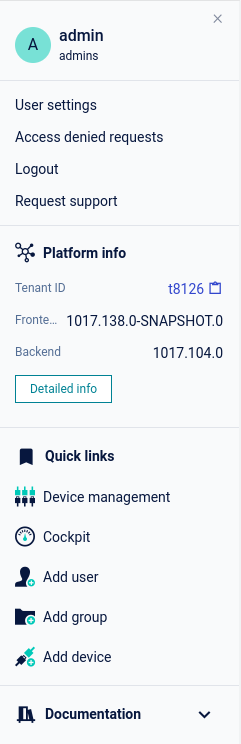
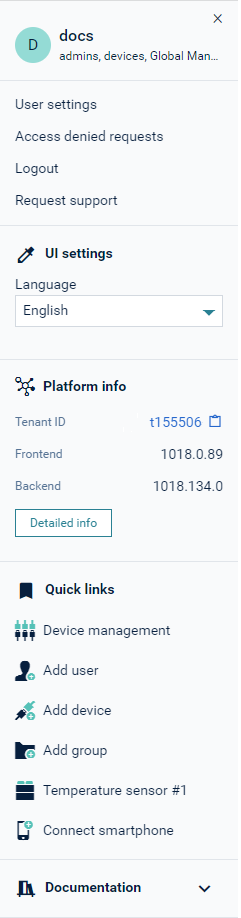
updated user menu screenshot
Updated screenshot of the user menu that has UI settings option to change the language.

diff --git a/content/users-guide/getting-started-bundle/user-settings.md b/content/users-guide/getting-started-bundle/user-settings.md
@@ -52,37 +52,13 @@ Note that this option is only available if support user access is not set global
 </tbody>
 </table>
 
-In the **Platform info** section, you find information on the infrastructure of your platform:
-
-- The ID of your tenant, which might be required if you request support. Click the copy icon next to the tenant ID to copy it to the clipboard.
-- Release version information for both the backend and the UI.
-
-Moreover you can click **Detailed info** to download more detailed platform information.
-
-The **Quick links** section provides links to the most common pages and processes in the platform while the **Documentation** section provides links to the most relevant guides.
-
-<a name="change-user-settings"></a>
-### To change user settings
-
-Several account settings can be changed by the user.
-
-1. Click the **User** button at the right of the top bar and then click **User Settings**.  
-2. In the **Edit user** dialog box, make the relevant changes.
-3. To change the language, select a [language](#languages) from the dropdown list in the  **Language** field.
-4. Use the **Product experience** toggle to opt-out from the product experience tracking by Gainsight which is enabled by default if you accepted functional cookies.
-5. Use the **In-product information** toggle to opt-out from the Knowledge Hub which is enabled by default.
-6. Click **Change password** to change your current password, see [To change your password](#change-password) for details.
-7. Click **Set up two-factor authentication** to set up two-factor authentication and increase tenant security.
-8. Click **Save** to apply your settings.
+Change the language in the **UI settings** section. Reload the page to apply the new language setting.
 
 The user interface language will be selected along the following criteria, in the order listed below:
 
 *  The language selected in the {{< product-c8y-iot >}} user settings.
 *  The language selected in the browser preferences.
-* 	The operating system language.
-
-<a name="languages"></a>
-#### Available languages
+*  The operating system language.
 
 The UI is available in the following languages:
 
@@ -101,6 +77,28 @@ The UI is available in the following languages:
 |Russian|ru|
 |Spanish|es|
 
+
+In the **Platform info** section, you find information on the infrastructure of your platform:
+
+- The ID of your tenant, which might be required if you request support. Click the copy icon next to the tenant ID to copy it to the clipboard.
+- Release version information for both the backend and the UI.
+
+Moreover you can click **Detailed info** to download more detailed platform information.
+
+The **Quick links** section provides links to the most common pages and processes in the platform while the **Documentation** section provides links to the most relevant guides.
+
+<a name="change-user-settings"></a>
+### To change user settings
+
+Several account settings can be changed by the user.
+
+1. Click the **User** button at the right of the top bar and then click **User Settings**.  
+2. In the **Edit user** dialog box, make the relevant changes.
+3. Use the **Product experience** toggle to opt-out from the product experience tracking by Gainsight which is enabled by default if you accepted functional cookies.
+4. Use the **In-product information** toggle to opt-out from the Knowledge Hub which is enabled by default.
+5. Click **Change password** to change your current password, see [To change your password](#change-password) for details.
+6. Click **Set up two-factor authentication** to set up two-factor authentication and increase tenant security.
+7. Click **Save** to apply your settings.
 
 <a name="change-password"></a>
 #### To change your password
